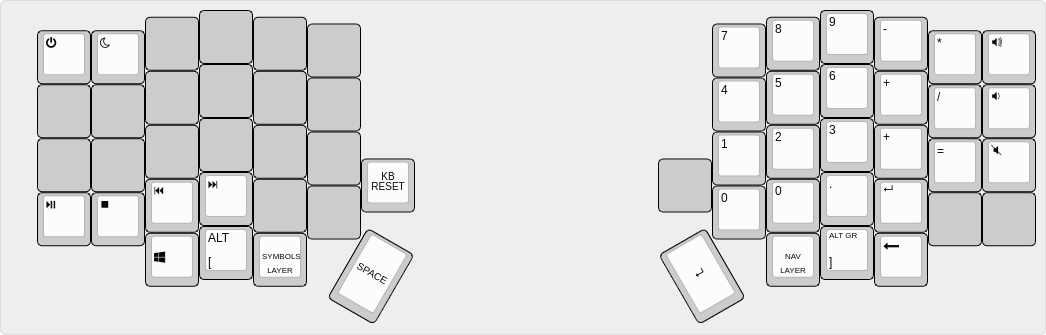
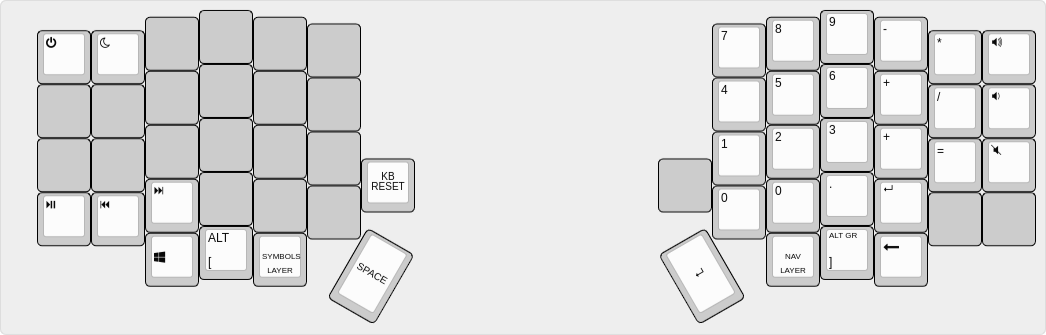
Fixed Next and Previous Track Macro Keys
They were using the Mac keycodes before. Using the proper PC keycodes
now.

Also, removed the media Stop key (who uses that?).

Changed region(s): [[0.1836, 0.5075, 0.2447, 0.6567], [0.826, 0.7164, 0.8566, 0.7463], [0.0918, 0.597, 0.1224, 0.6269]]

diff --git a/keymap.c b/keymap.c
@@ -93,7 +93,7 @@ const uint16_t PROGMEM keymaps[][MATRIX_ROWS][MATRIX_COLS] = {
  * |------+------+------+------+------+------|                    |------+------+------+  +   +------+------|
  * |      |      |      |      |      |      |-------.    ,-------|  1   |  2   |  3   |      |  =   | MUTE |
  * |------+------+------+------+------+------|KB_RST |    |       |------+------+------+------+------+------|
- * | PLAY | STOP | RWND | FFWD |      |      |-------|    |-------|      0      |  .   |ENTER |      |      |
+ * | PLAY | PREV | NEXT |      |      |      |-------|    |-------|      0      |  .   |ENTER |      |      |
  * `-----------------------------------------/       /    \       \-----------------------------------------'
  *                  | LGUI | LALT |SYMBOLS| / Space /      \ Enter \  |NAV | RALT | BKSPC |
  *                  |      | ([)  |       |/       /        \       \ |    | (])  |       |
@@ -103,7 +103,7 @@ const uint16_t PROGMEM keymaps[][MATRIX_ROWS][MATRIX_COLS] = {
     KC_PWR,   KC_SLEP,   KC_WAKE,   KC_NO,   KC_NO,   KC_NO,                    KC_P7,   KC_P8,   KC_P9,   KC_PMNS,   KC_PAST,   KC_VOLU,
     KC_NO,    KC_NO,     KC_NO,     KC_NO,   KC_NO,   KC_NO,                    KC_P4,   KC_P5,   KC_P6,   KC_PPLS,   KC_PSLS,   KC_VOLD,
     KC_NO,    KC_NO,     KC_NO,     KC_NO,   KC_NO,   KC_NO,                    KC_P1,   KC_P2,   KC_P3,   KC_PPLS,   KC_EQL,    KC_MUTE,
-    KC_MPLY,  KC_MSTP,   KC_MRWD,   KC_MFFD, KC_NO,   KC_NO,  RESET,    KC_NO,  KC_P0,   KC_P0,   KC_PDOT, KC_PENT,   KC_NO,     KC_NO,
+    KC_MPLY,  KC_MPRV,   KC_MNXT,   KC_NO,   KC_NO,   KC_NO,  RESET,    KC_NO,  KC_P0,   KC_P0,   KC_PDOT, KC_PENT,   KC_NO,     KC_NO,
                             KC_TRNS,   KC_TRNS,   KC_TRNS,   KC_TRNS,  KC_TRNS,   KC_TRNS,   KC_TRNS,   KC_TRNS
   )
 };
